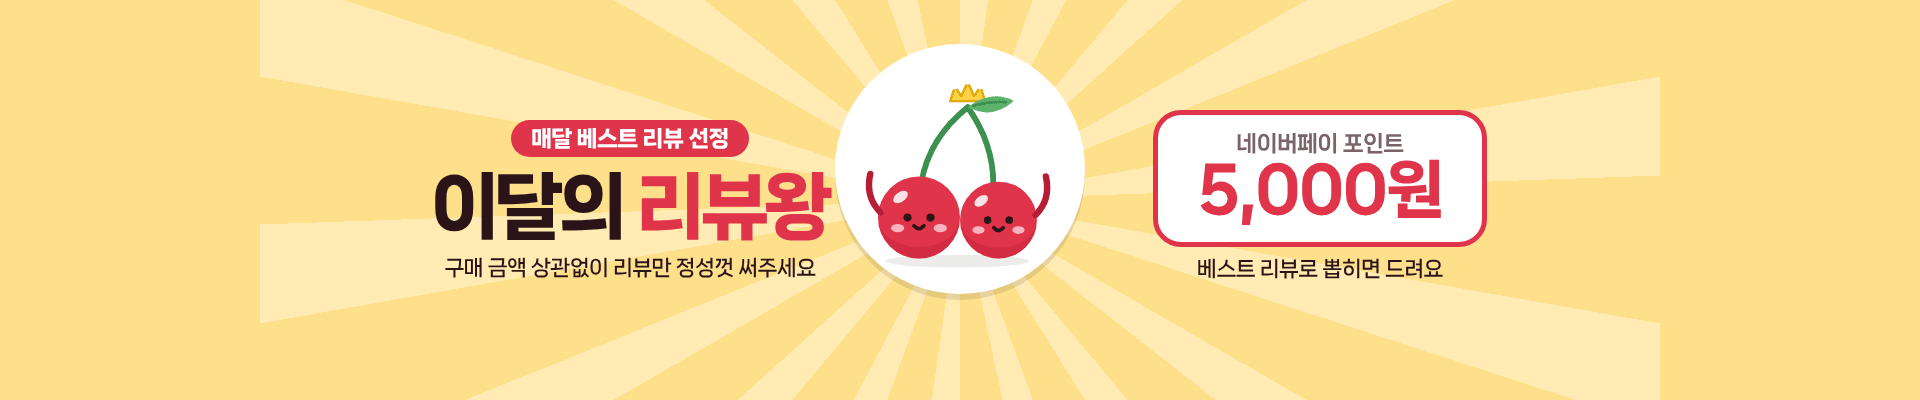
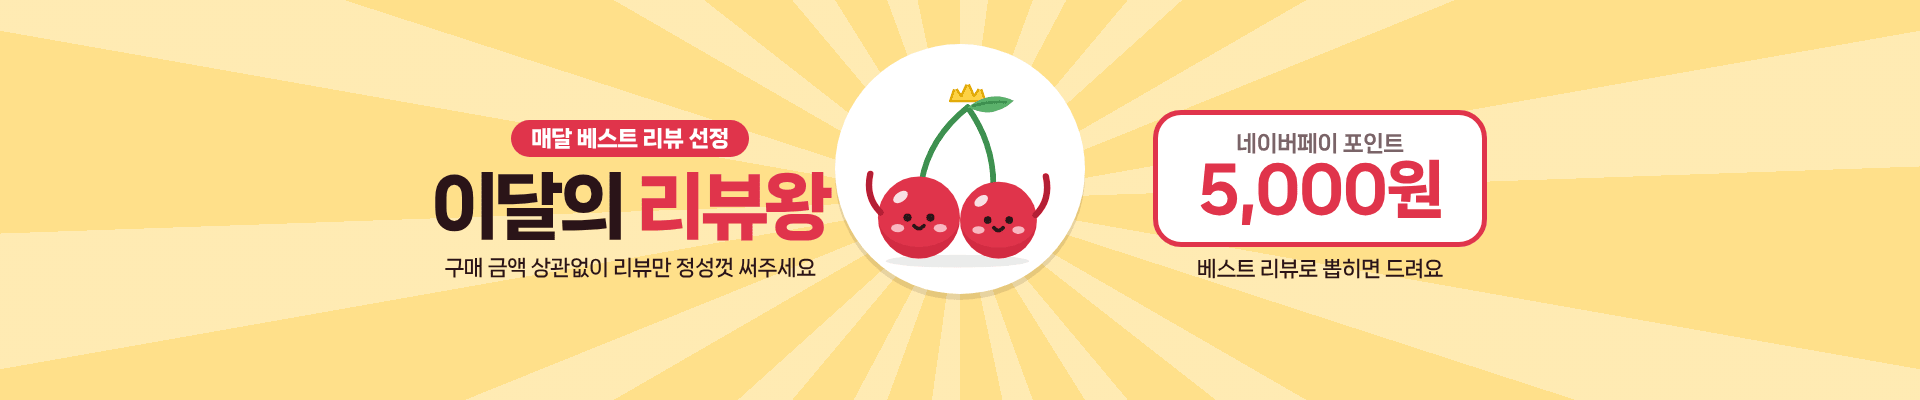
미스터 체리: 리뷰왕 배너 햇살 배경 잘림 수정, 프로필 시안 3종(빨강 스티커 / 흰 바탕 링 / 노랑 햇살 + 이름)
Claude-Session: https://claude.ai/code/session_01PE2ziTJ29XNj6qrJ9hNtvD

diff --git a/cherry-design/src/store2_profile.html b/cherry-design/src/store2_profile.html
@@ -1,0 +1,23 @@
+<!doctype html><html lang="ko"><head><meta charset="utf-8"><title>미스터 체리 프로필</title><link rel="stylesheet" href="store2.css">
+<style>
+ body{width:1000px;height:1000px}
+ .__V__ {}
+ /* A 빨강 바탕 + 흰 외곽선 캐릭터 꽉 차게 */
+ .A{background:var(--r)}
+ .A .mascot{position:absolute;left:110px;top:150px;width:780px;height:720px;filter:drop-shadow(10px 0 0 #fff) drop-shadow(-10px 0 0 #fff) drop-shadow(0 10px 0 #fff) drop-shadow(0 -10px 0 #fff)}
+ .A .mascot svg > ellipse:first-child{display:none}
+ /* B 흰 바탕 + 빨간 굵은 링 */
+ .B{background:#fff}
+ .B .ring{position:absolute;left:70px;top:70px;width:860px;height:860px;border-radius:50%;border:34px solid var(--r)}
+ .B .mascot{position:absolute;left:170px;top:190px;width:660px;height:610px}
+ /* C 버터 바탕 + 체리 + 아래 이름 */
+ .C{background:var(--bt)}
+ .C .sun{position:absolute;left:50%;top:50%;width:4000px;height:4000px;margin:-2000px 0 0 -2000px;background:repeating-conic-gradient(rgba(255,255,255,.4) 0 8deg,transparent 8deg 20deg)}
+ .C .mascot{position:absolute;left:190px;top:120px;width:620px;height:572px}
+ .C .nm{position:absolute;left:0;right:0;bottom:150px;text-align:center;font-weight:900;font-size:120px;letter-spacing:-.06em;color:var(--r)}
+</style></head><body class="__V__">
+<div class="sun"></div><div class="ring"></div>
+<div class="mascot" data-pose="plain"></div>
+<div class="nm"></div>
+<script>document.querySelector('.nm').textContent = document.body.className==='C' ? '미스터 체리' : '';</script>
+<script src="mascot4.js"></script></body></html>

diff --git a/cherry-design/render_store2.js b/cherry-design/render_store2.js
@@ -15,6 +15,9 @@ const MAX_H = 2000;           // 장당 최대 세로(px, 출력 기준)
 const SCALE = 1000 / 860;     // 860px 디자인 → 가로 1000px 출력
 
 const jobs = [
+  { file: 'store2_profile.html', out: 'store_profile_1300_A', width: 1000, height: 1000, scale: 1.3, vars: { __V__: 'A' } },
+  { file: 'store2_profile.html', out: 'store_profile_1300_B', width: 1000, height: 1000, scale: 1.3, vars: { __V__: 'B' } },
+  { file: 'store2_profile.html', out: 'store_profile_1300_C', width: 1000, height: 1000, scale: 1.3, vars: { __V__: 'C' } },
   { file: 'store2_promo1.html', out: 'store_promo1_pc_1920x400', width: 1920, height: 400, scale: 1, vars: { __SIZE__: 'pc' } },
   { file: 'store2_promo1.html', out: 'store_promo1_mobile_750x600', width: 750, height: 600, scale: 1, vars: { __SIZE__: 'm' } },
   { file: 'store2_promo2.html', out: 'store_promo2_pc_1920x400', width: 1920, height: 400, scale: 1, vars: { __SIZE__: 'pc' } },

diff --git a/cherry-design/src/store2_promo4.html b/cherry-design/src/store2_promo4.html
@@ -1,6 +1,6 @@
 <!doctype html><html lang="ko"><head><meta charset="utf-8"><title>미스터 체리 프로모션 4 리뷰왕</title><link rel="stylesheet" href="store2.css"><style>
  body{background:var(--bt)}
- .rays{position:absolute;left:50%;top:50%;width:1400px;height:1400px;margin:-700px 0 0 -700px;background:repeating-conic-gradient(rgba(255,255,255,.35) 0 8deg,transparent 8deg 20deg)}
+ .rays{position:absolute;left:50%;top:50%;width:4000px;height:4000px;margin:-2000px 0 0 -2000px;background:repeating-conic-gradient(rgba(255,255,255,.35) 0 8deg,transparent 8deg 20deg)}
  .m .rays{top:34%}
  .mbub{position:absolute} .pc .mbub{left:50%;top:44px;width:250px;height:250px;margin-left:-125px} .m .mbub{left:50%;top:40px;width:220px;height:220px;margin-left:-110px}
  .l,.rt{position:absolute;text-align:center}
